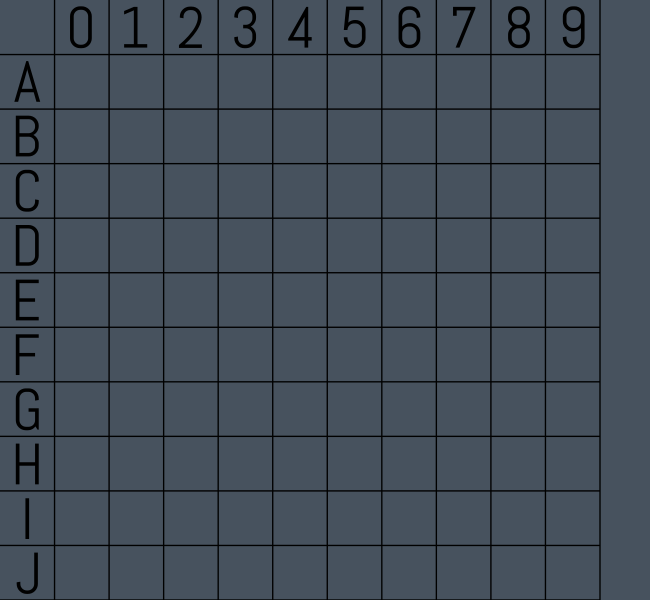
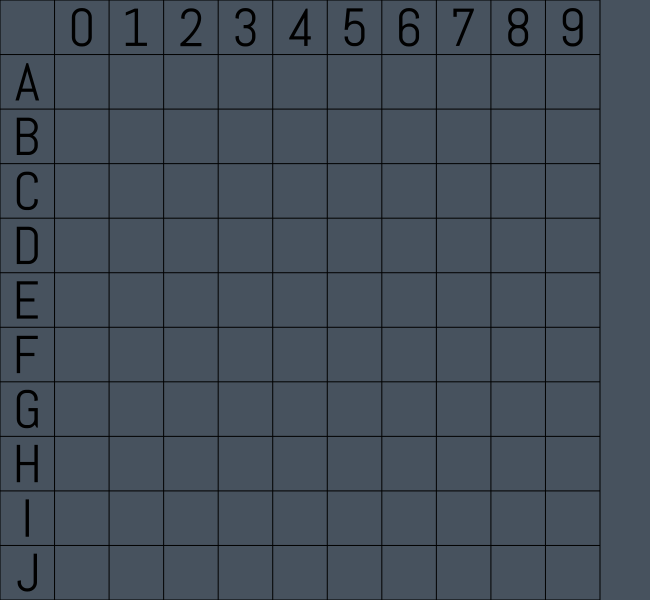
Battleship 06/21/19

diff --git a/Battleship/root/Game/game.cpp b/Battleship/root/Game/game.cpp
@@ -43,12 +43,12 @@ bool operator==(const GridSquare& left, const GridSquare& right) {
 	return false;
 }
 
-Grid::Grid(int GridSize) {
+Grid::Grid(float GridSize) {
 
 	const char* pGridSpace = "Assets/gridspace.png";
 	const char* pGridSquare = "Assets/gridsquare.png";
 
-	if (GridSize == 54) {
+	if (GridSize == 54.5) {
 		pGridSpace = "Assets/gridspacefull.png";
 		pGridSquare = "Assets/gridsquarefull.png";
 	}
@@ -62,8 +62,8 @@ Grid::Grid(int GridSize) {
 
 	GridSpace = std::make_pair(iGridSpace, GSRect);
 
-	float x = std::floor(static_cast<float>(GridSize / 2));
-	float y = 600 - std::floor(static_cast<float>(GridSize / 2));
+	float x = GridSize / 2;
+	float y = 600 - (GridSize / 2);
 
 	char rows[] = { 'A', 'B', 'C', 'D', 'E', 'F', 'G', 'H', 'I', 'J' };
 	char cols[] = { '0', '1', '2', '3', '4', '5', '6', '7', '8', '9' };
@@ -78,7 +78,7 @@ Grid::Grid(int GridSize) {
 		if (z % 10 == 0) {
 
 			y -= GridSize;
-			x = std::floor(static_cast<float>(GridSize / 2));
+			x = GridSize / 2;
 
 			baseRow = rows[br];
 			br++;
@@ -87,10 +87,10 @@ Grid::Grid(int GridSize) {
 		x += GridSize;
 		baseCol = cols[z % 10];
 
-		std::stringstream _id;
+		std::ostringstream _id;
 		_id << baseRow << baseCol;
 
-		vGrid.push_back(GridSquare(pGridSquare, _id.str(), glm::vec3(x + ((GridSize == 54) ? 2 : 0), y - ((GridSize == 54) ? 2 : 0), 0)));
+		vGrid.push_back(GridSquare(pGridSquare, _id.str(), glm::vec3(x, y, 0)));
 	}
 }
 

diff --git a/Battleship/root/main.cpp b/Battleship/root/main.cpp
@@ -121,7 +121,7 @@ int main() {
 	CSG full(SetupDefaultPositions, true);
 
 	Grid SetupGrid;
-	Grid PlayGrid(54);
+	Grid PlayGrid(54.5);
 
 	// Game Objects
 	Player player1;
@@ -152,9 +152,6 @@ int main() {
 				homescreen.Render();
 				playbutton.Render();
 				exitbutton.Render();
-
-				//pPlay1.Render();
-				//PlayGrid.Render(true);
 
 				break;
 			}
@@ -381,7 +378,7 @@ int main() {
 
 								if (RecvParsePair.first == "attack") {
 									PLAYSTATE = MGO::PlayState::P2TURN;
-									Connect::aRecvData = "";
+									Connect::aRecvData.store("");
 								}
 							}
 
@@ -419,7 +416,7 @@ int main() {
 
 								if (RecvParsePair.first == "attack") {
 									PLAYSTATE = MGO::PlayState::P1TURN;
-									Connect::aRecvData = "";
+									Connect::aRecvData.store("");
 								}
 							}
 

diff --git a/Battleship/root/Connect/connect.cpp b/Battleship/root/Connect/connect.cpp
@@ -293,6 +293,7 @@ namespace Connect {
 			if (iResult > 0) {
 
 				srecvbuf = recvbuf;
+				aRecvData.store(srecvbuf.c_str());
 
 				if (srecvbuf == "exit") {
 
@@ -325,7 +326,7 @@ namespace Connect {
 				}
 			}
 
-			aRecvData = srecvbuf.c_str();
+			//aRecvData = srecvbuf.c_str();
 
 		} while (recvRun);
 

diff --git a/Battleship/root/Game/game.h b/Battleship/root/Game/game.h
@@ -46,7 +46,7 @@ class Grid {
 
 public:
 
-	Grid(int GridSize = 40);
+	Grid(float GridSize = 40);
 
 	void Update();
 	void Render(bool debug = false) const; // Debug
